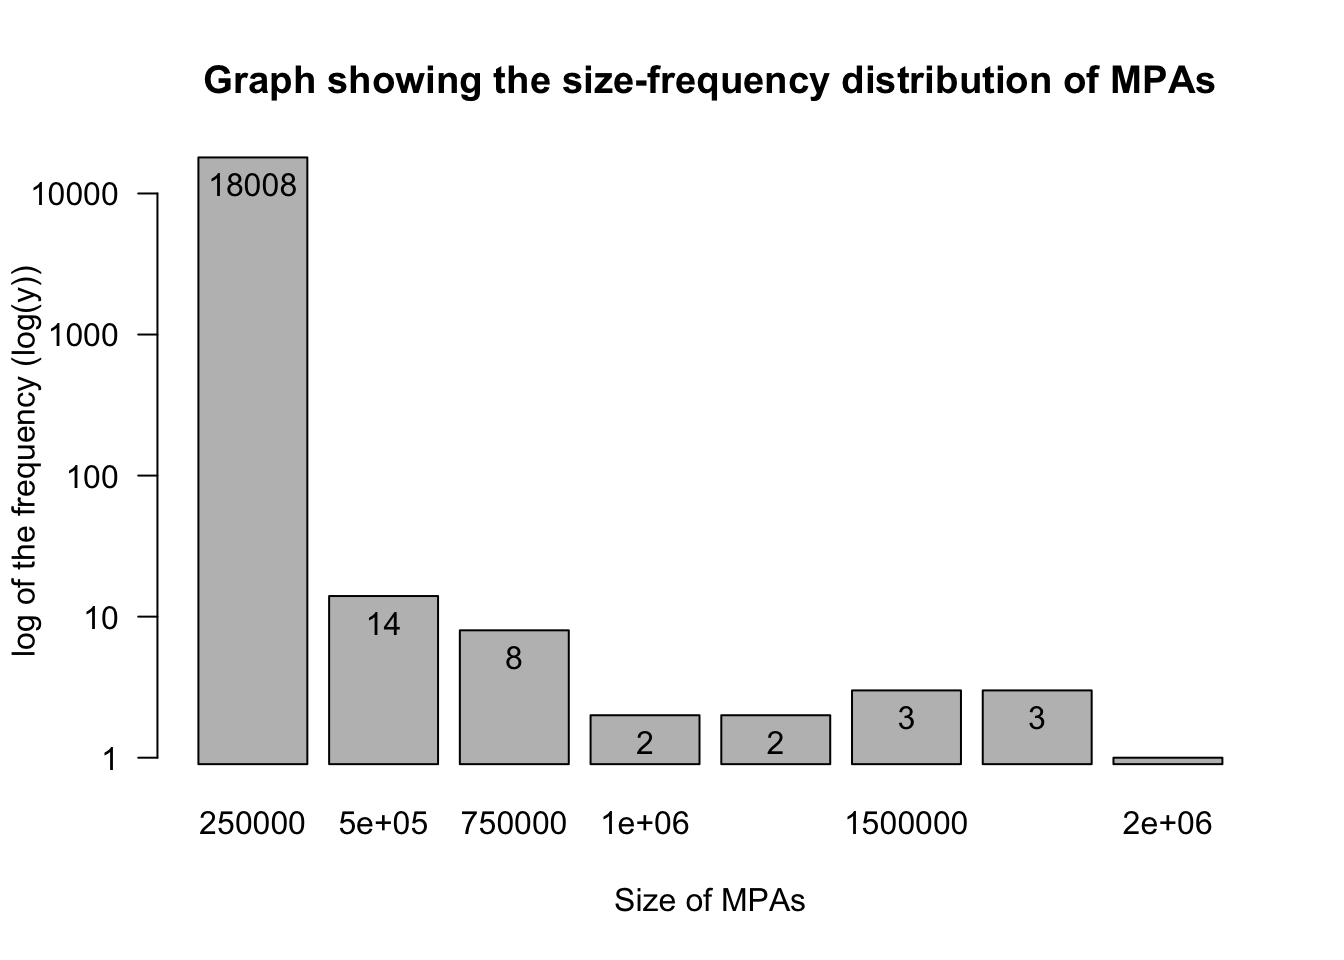
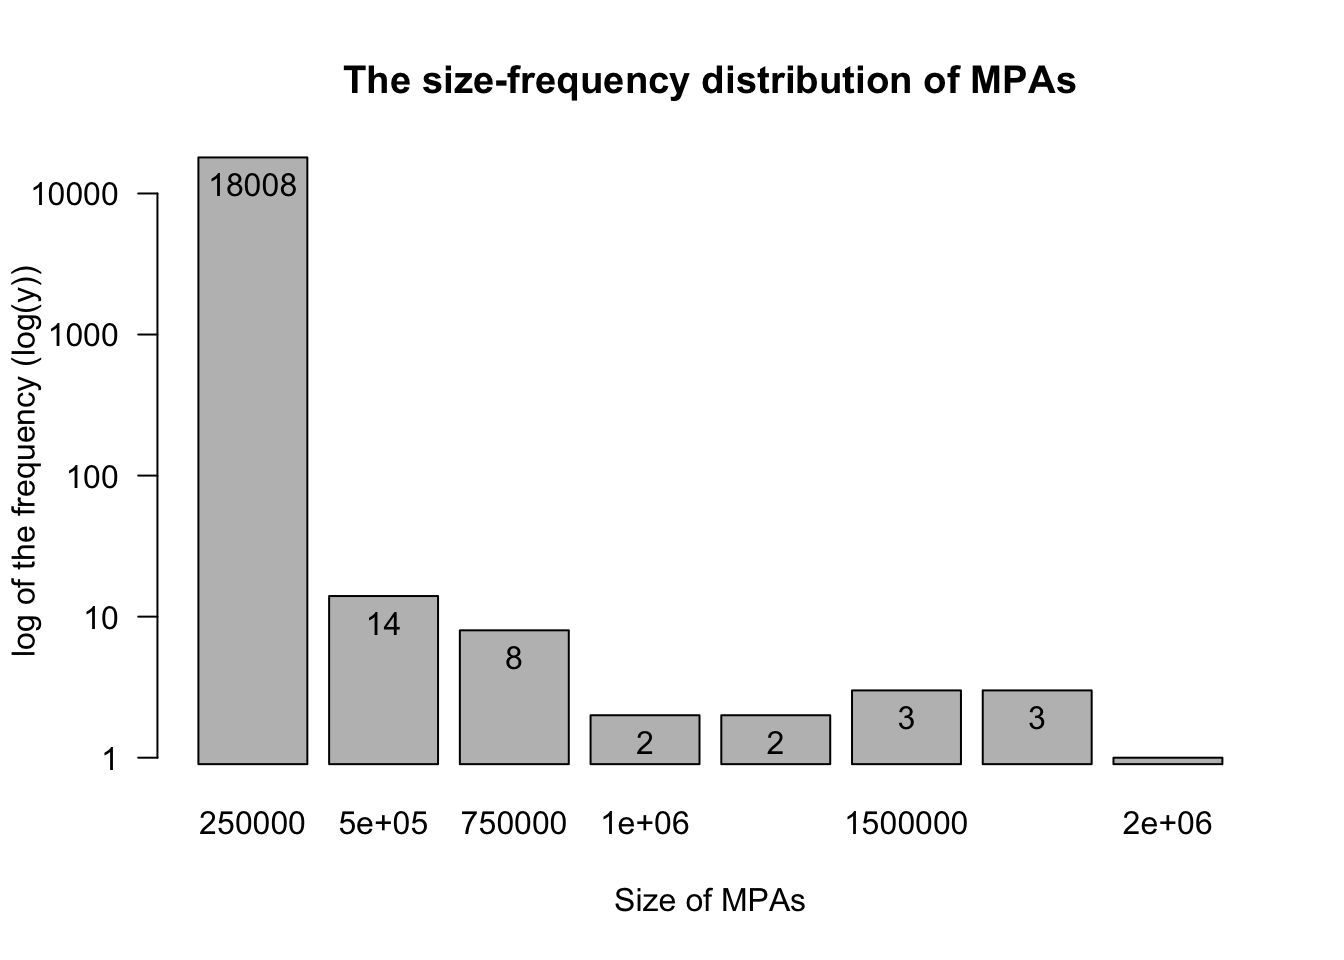
edited title

Changed region(s): [[0.1562, 0.0625, 0.9062, 0.125]]

diff --git a/docs/how-to-do-the-analysis-in-r.html b/docs/how-to-do-the-analysis-in-r.html
@@ -372,7 +372,7 @@ code span.wa { color: #60a0b0; font-weight: bold; font-style: italic; } /* Warni
 <span id="cb22-4"><a href="how-to-do-the-analysis-in-r.html#cb22-4"></a>              <span class="dt">names.arg=</span><span class="kw">c</span>(<span class="dv">250000</span>, <span class="dv">500000</span>, <span class="dv">750000</span>, <span class="dv">1000000</span>, <span class="dv">1250000</span>, <span class="dv">1500000</span>, <span class="dv">1750000</span>, <span class="dv">2000000</span>),</span>
 <span id="cb22-5"><a href="how-to-do-the-analysis-in-r.html#cb22-5"></a>              <span class="dt">xlab =</span> <span class="st">&quot;Size of MPAs&quot;</span>,</span>
 <span id="cb22-6"><a href="how-to-do-the-analysis-in-r.html#cb22-6"></a>              <span class="dt">ylab =</span> <span class="st">&quot;log of the frequency (log(y))&quot;</span>,</span>
-<span id="cb22-7"><a href="how-to-do-the-analysis-in-r.html#cb22-7"></a>              <span class="dt">main =</span> <span class="st">&quot;Graph showing the size-frequency distribution of MPAs&quot;</span>,</span>
+<span id="cb22-7"><a href="how-to-do-the-analysis-in-r.html#cb22-7"></a>              <span class="dt">main =</span> <span class="st">&quot;The size-frequency distribution of MPAs&quot;</span>,</span>
 <span id="cb22-8"><a href="how-to-do-the-analysis-in-r.html#cb22-8"></a>              <span class="dt">las=</span><span class="dv">1</span>)</span>
 <span id="cb22-9"><a href="how-to-do-the-analysis-in-r.html#cb22-9"></a><span class="kw">text</span>(barplt, marine_hist<span class="op">$</span>counts, <span class="dt">labels=</span>marine_hist<span class="op">$</span>counts, <span class="dt">pos=</span><span class="dv">1</span>)</span></code></pre></div>
 <p><img src="walktwoods_files/figure-html/unnamed-chunk-19-1.png" width="672" /></p>
